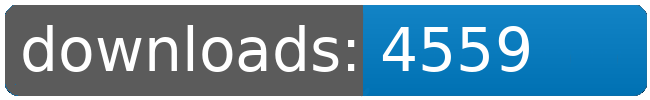
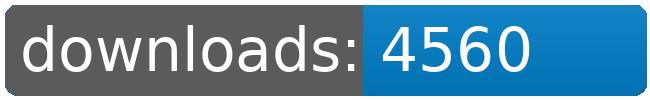
dl log written

Changed region(s): [[0.7077, 0.24, 0.8308, 0.72]]

diff --git a/README.md b/README.md
@@ -76,8 +76,8 @@
 		<td>4498</td>
 		<td>4519</td>
 		<td>4541</td>
-		<td>4559</td>
-		<td>+ 18</td>
+		<td>4560</td>
+		<td>+ 19</td>
 	</tr>
 	<tr>
 		<td>Solar.Sails</td>
@@ -109,8 +109,8 @@
 		<td></td>
 		<td></td>
 		<td></td>
-		<td>33639</td>
-		<td>131</td>
+		<td>33640</td>
+		<td>132</td>
 	</tr>
 </table>
 </sub></sup>
@@ -146,8 +146,8 @@
 		<td>4498</td>
 		<td>4519</td>
 		<td>4541</td>
-		<td>4559</td>
-		<td>+ 18</td>
+		<td>4560</td>
+		<td>+ 19</td>
 	</tr>
 	<tr>
 		<td>Korunak.Defense.Drones</td>
@@ -223,8 +223,8 @@
 		<td></td>
 		<td></td>
 		<td></td>
-		<td>33639</td>
-		<td>131</td>
+		<td>33640</td>
+		<td>132</td>
 	</tr>
 </table>
 </sub></sup>
